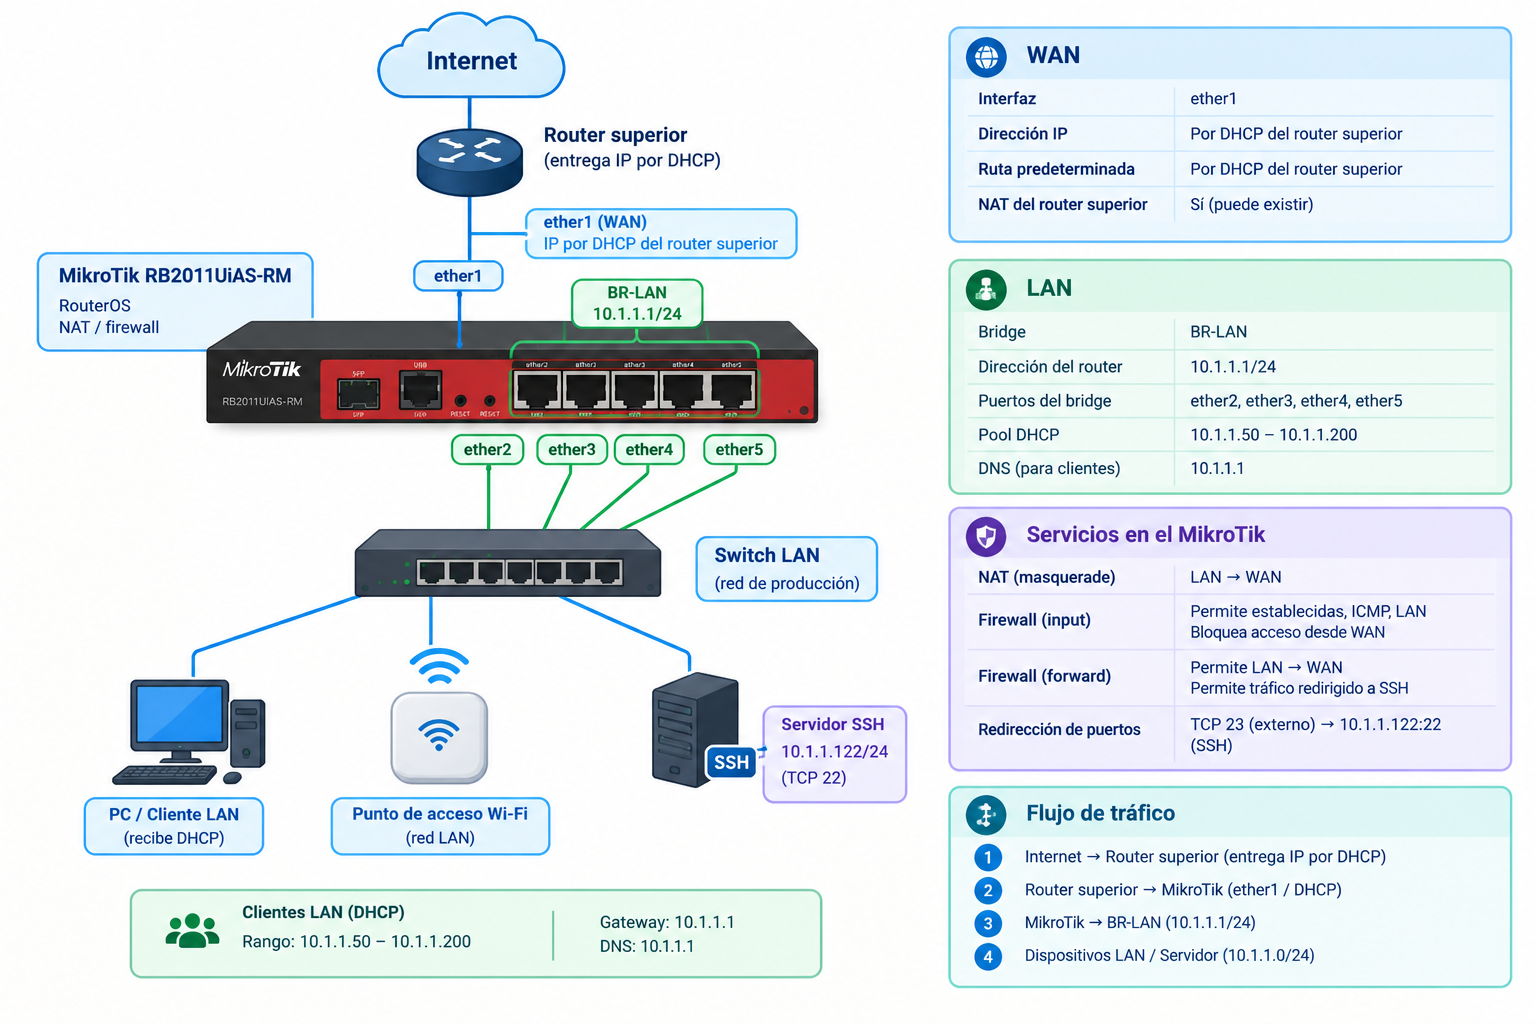
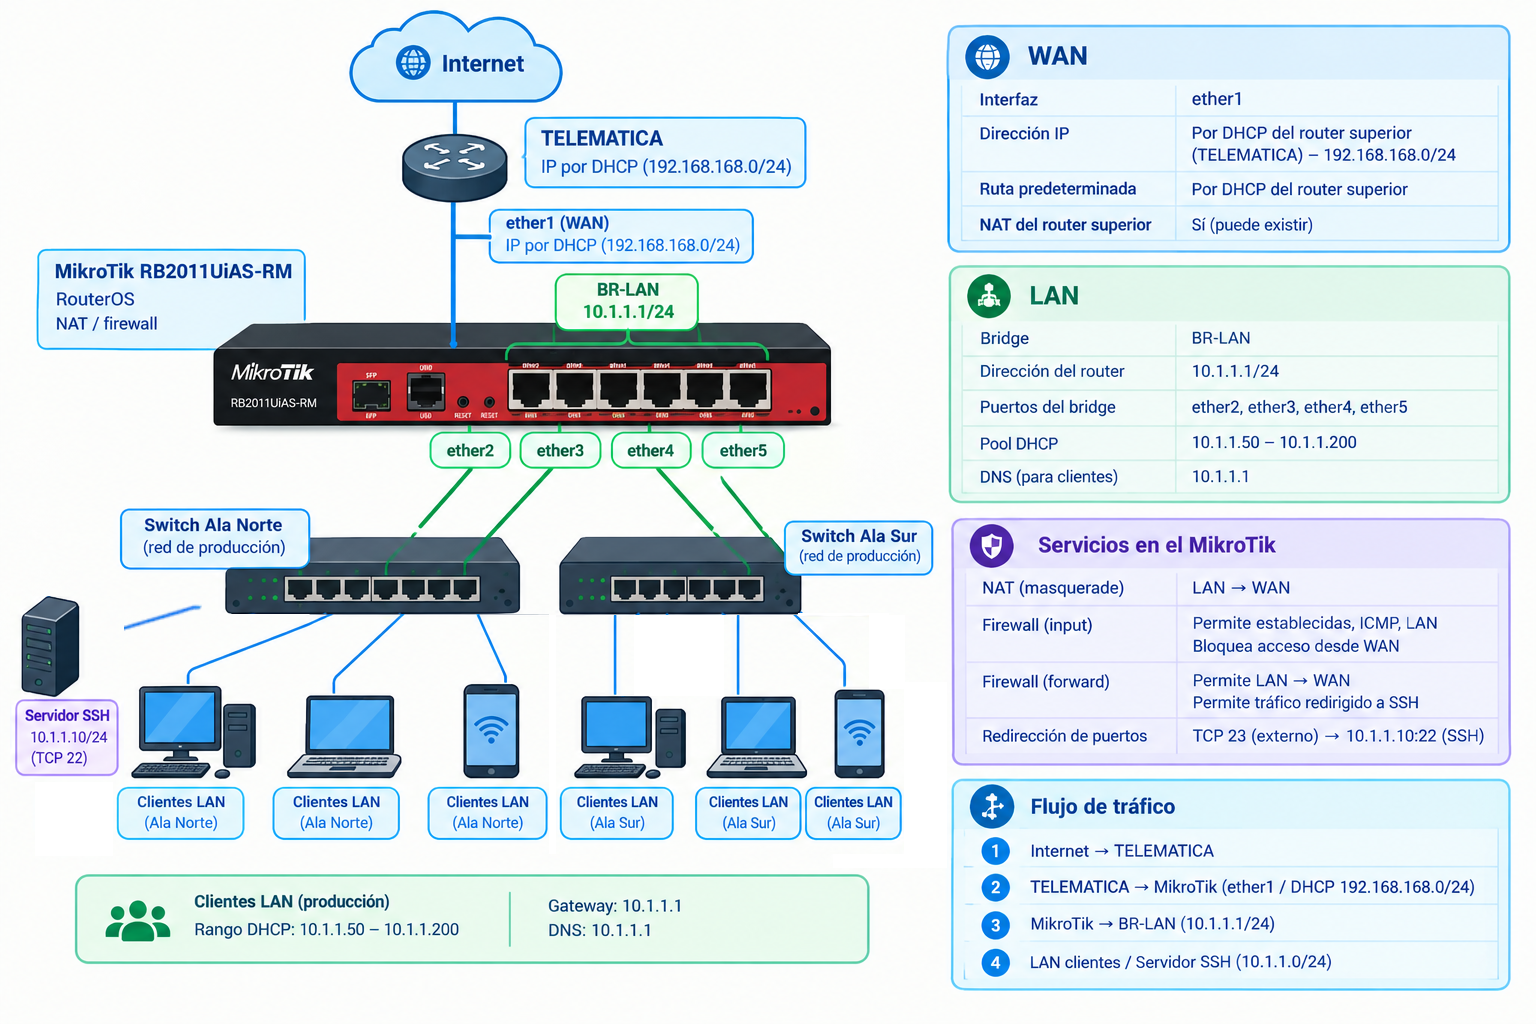
fix: diagrama de red

Changed region(s): [[0.0, 0.0, 1.0, 0.9688], [0.0938, 0.5938, 0.125, 0.625]]

diff --git a/production.md b/production.md
@@ -13,7 +13,7 @@
 | Rango DHCP | `10.1.1.50-10.1.1.200` |
 | Lista WAN | `WAN-LIST` |
 | Lista LAN | `LAN` |
-| Servidor SSH | `IP-SINC12` (sinc12)|
+| Servidor SSH | `10.1.1.10` (sinc12)|
 | Puerto externo | TCP `23` (ssh)|
 | Puerto interno | TCP `22` (sinc12)|
 
@@ -234,7 +234,7 @@ Debe existir una sola regla equivalente de `masquerade` para la salida LAN hacia
 Crear la regla DST-NAT:
 
 ```routeros
-/ip firewall nat add chain=dstnat in-interface-list=WAN-LIST protocol=tcp dst-port=23 action=dst-nat to-addresses=IP-SINC12 to-ports=22 comment="SSH-externo-a-servidor-LAN"
+/ip firewall nat add chain=dstnat in-interface-list=WAN-LIST protocol=tcp dst-port=23 action=dst-nat to-addresses=10.1.1.10 to-ports=22 comment="SSH-externo-a-servidor-LAN"
 ```
 
 Verificar:
@@ -243,7 +243,7 @@ Verificar:
 /ip firewall nat print detail
 ```
 
-Esta regla cambia el destino del tráfico entrante TCP `23` hacia `IP-SIN12:22`.
+Esta regla cambia el destino del tráfico entrante TCP `23` hacia `10.1.1.10:22`.
 
 **Importante:** el servidor `SINC12` debe tener ena ip estatica.
 
@@ -285,7 +285,7 @@ Estas reglas controlan el tráfico que atraviesa el router hacia otros equipos.
 /ip firewall filter add chain=forward action=accept connection-state=established,related,untracked comment="FORWARD conexiones establecidas"
 /ip firewall filter add chain=forward action=drop connection-state=invalid comment="FORWARD descartar invalidas"
 /ip firewall filter add chain=forward action=accept in-interface-list=LAN out-interface-list=WAN-LIST comment="FORWARD LAN a WAN"
-/ip firewall filter add chain=forward action=accept in-interface-list=WAN-LIST protocol=tcp connection-nat-state=dstnat dst-address=IP-SIN12 dst-port=22 comment="FORWARD SSH redirigido"
+/ip firewall filter add chain=forward action=accept in-interface-list=WAN-LIST protocol=tcp connection-nat-state=dstnat dst-address=10.1.1.10 dst-port=22 comment="FORWARD SSH redirigido"
 /ip firewall filter add chain=forward action=drop comment="FORWARD bloquear resto"
 ```
 

diff --git a/README.md b/README.md
@@ -51,3 +51,36 @@ Descargar ambos archivos desde WinBox y guardarlos en un lugar seguro.
 - Revisar las reglas de firewall según las necesidades de la red.
 - Monitorizar el consumo de ancho de banda y el estado del equipo.
 
+
+## Interfaces físicas y conexiones
+
+### WAN — TELEMATICA
+
+La conexión a Internet se recibe desde TELEMATICA por fibra óptica. La instalación prevista utiliza una ONT o terminal de fibra que entrega Ethernet al puerto `ether1` del MikroTik.
+
+- **Interfaz:** `ether1`
+- **Función:** WAN
+- **Dirección IP:** recibida por DHCP del equipo superior
+- **Ruta predeterminada:** recibida mediante DHCP
+
+La conexión directa de fibra al puerto SFP no está prevista por el momento.
+
+### LAN — Producción
+
+| Interfaz | Uso |
+|---|---|
+| `ether2` | Switch Ala Norte |
+| `ether3` | Switch Ala Sur |
+| `ether4` | Puerto LAN disponible |
+| `ether5` | Puerto LAN disponible |
+| `ether6`–`ether10` | Reservados; sin uso inicial |
+| `sfp1` | Reservado; sin uso inicial |
+
+Las interfaces `ether2`–`ether5` pertenecen al bridge `BR-LAN`, con dirección `10.1.1.1/24`.
+
+Los puertos reservados quedan fuera del bridge LAN mientras no se necesiten. Su estado administrativo debe verificarse en RouterOS.
+
+### Criterio de uso
+
+Los puertos reservados se documentan para facilitar el mantenimiento y las ampliaciones. Antes de habilitar uno, verificar su configuración, incorporarlo al bridge o asignarle la función que corresponda y revisar las reglas de seguridad.
+

diff --git a/comandos-ayuda.md b/comandos-ayuda.md
@@ -1,3 +1,22 @@
+## Desactivar dhcp-client
+
+```bash
+/ip dhcp-client disable [find where interface=WAN]
+```
+
+- Asignar ip 
+
+```bash
+/ip address add address=192.168.168.10/24 interface=WAN
+```
+
+- gateway
+
+```bash 
+/ip route add dst-address=0.0.0.0/0 gateway=192.168.168.1
+```
+
+
 ## Setear dhcp-client
 
 ```bash
